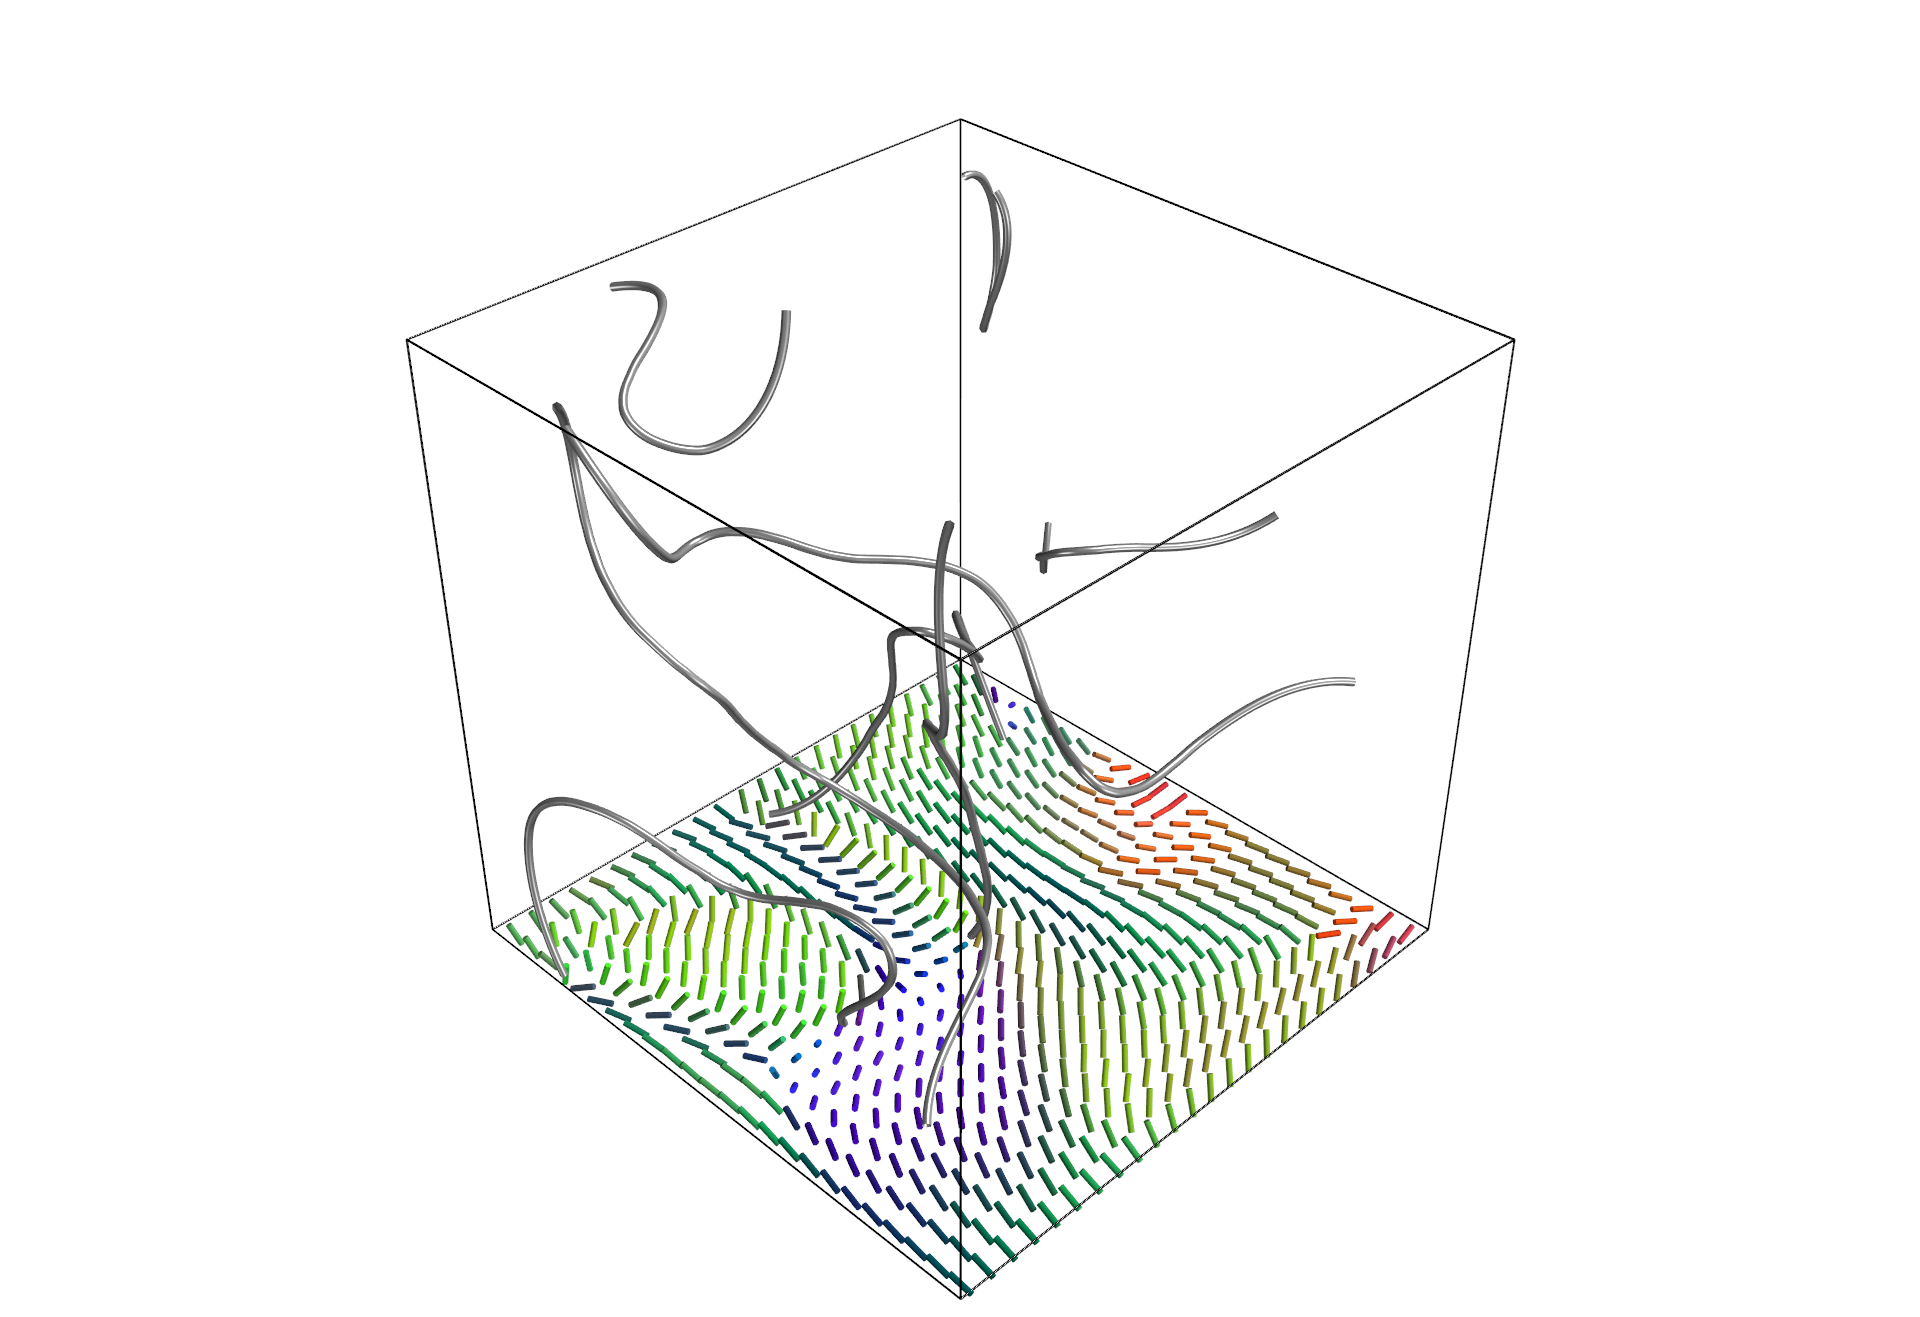
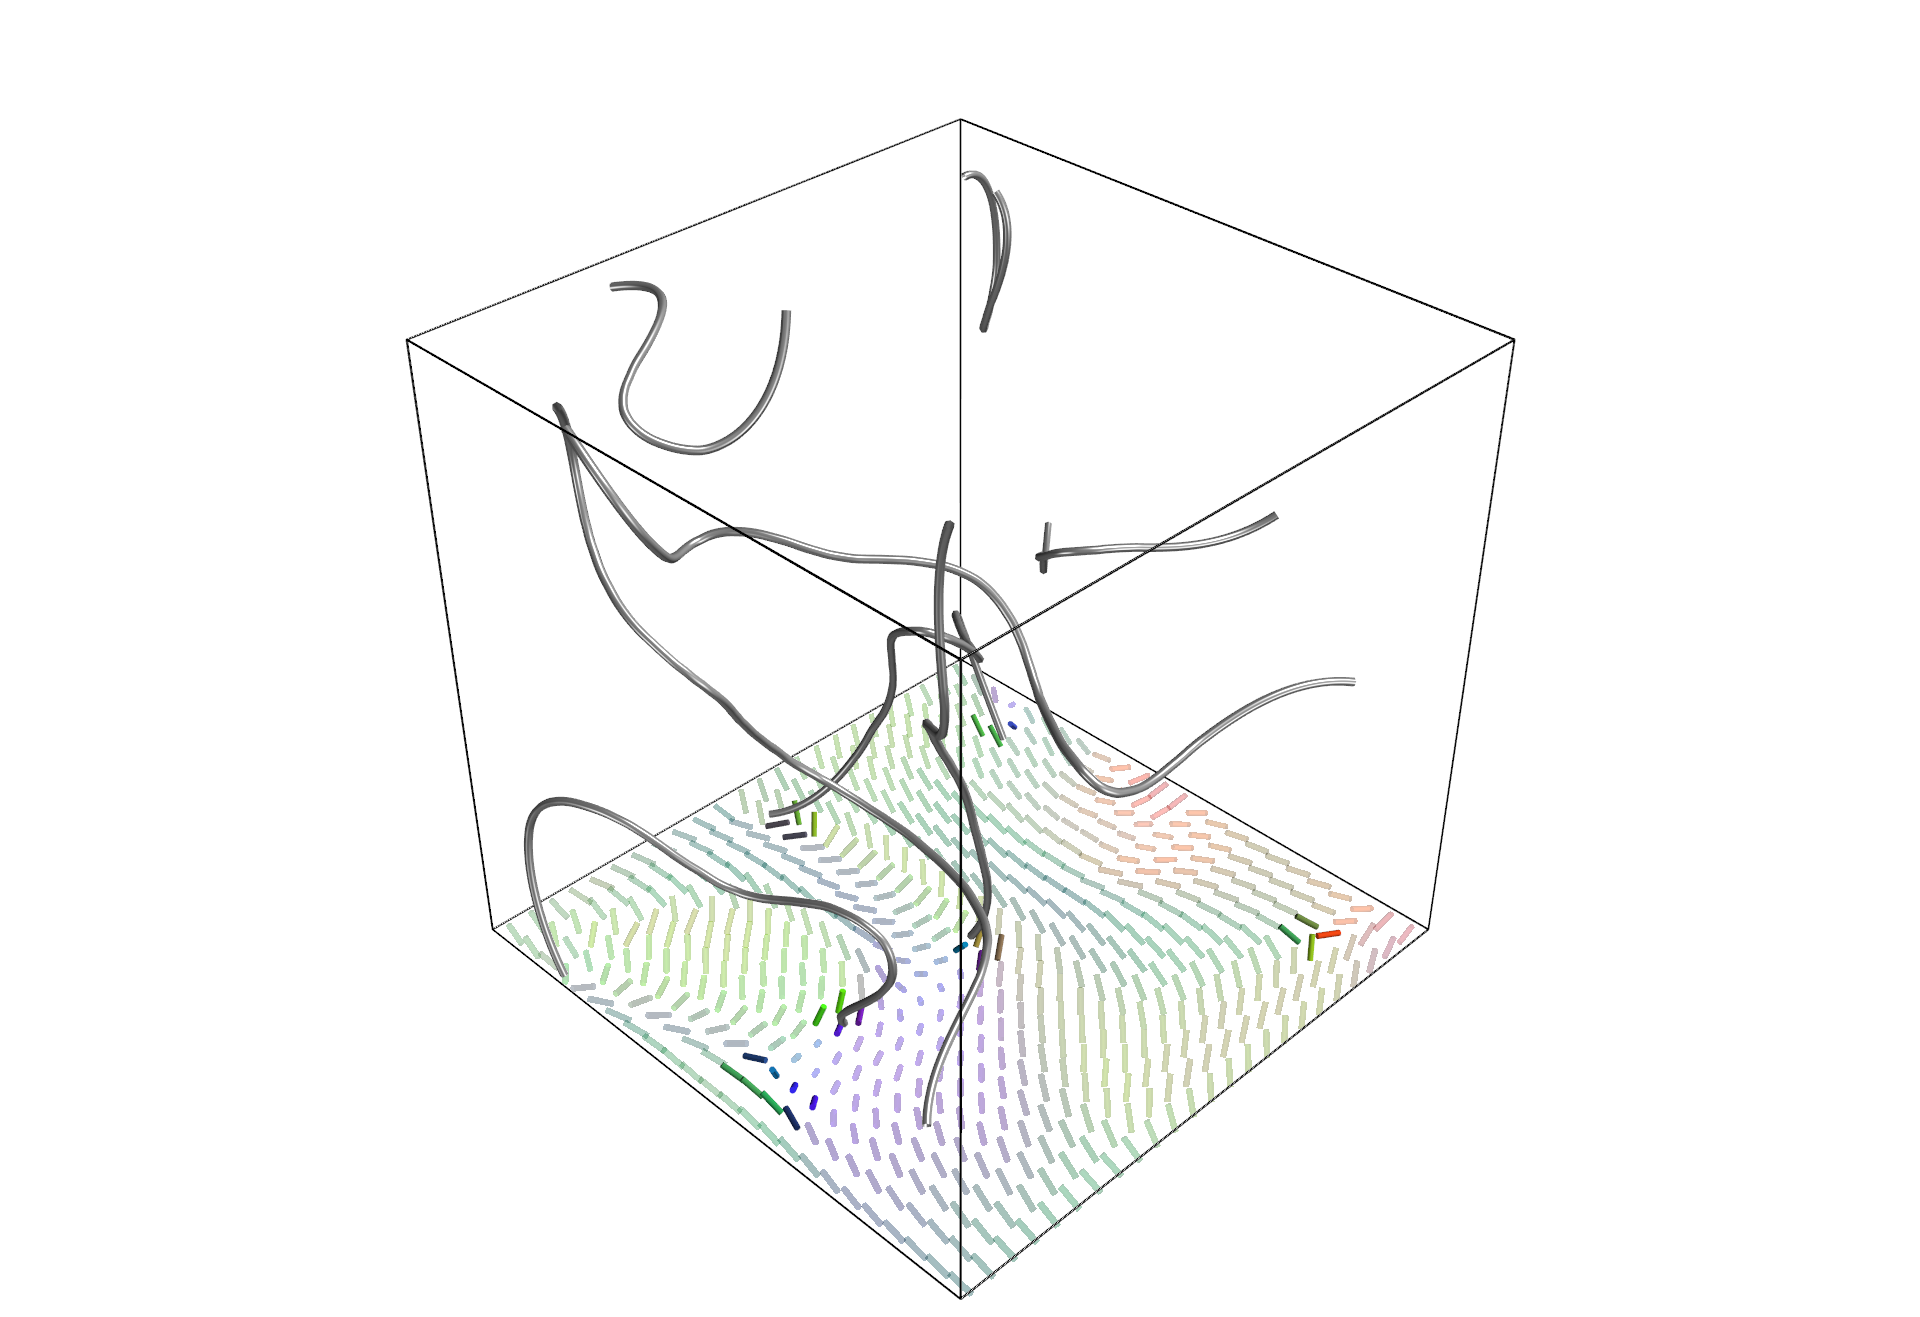
update

Changed region(s): [[0.25, 0.4981, 0.75, 0.9651]]

diff --git a/example/generare_figure_readme.py b/example/generare_figure_readme.py
@@ -45,21 +45,24 @@ Q.act_lines_classify()
 Q.act_lines_smooth()
 
 Q.act_visualize_disclination_lines(line_color=(0.5, 0.5, 0.5), extent_radius=0.1, line_radius=0.4)
-Q.act_visualize_n_in_Q((0,0,1), plane_spacing=2.5, plane_size=0.95*index_max, plane_origin=(int(index_max/2), int(index_max)/2,0), 
-                       n_length=2.5, n_radius=0.3, is_new=False, is_extent=False)
-Q.figs[0].save('figures/PlotnPlaneZ.png')
 
-Q.act_visualize_disclination_lines(line_color=(0.5, 0.5, 0.5), extent_radius=0.1, line_radius=0.4)
 n_length = 2.5
 n_radius = 0.3
 spacing = 2.5
-Q.act_visualize_n_in_Q((0,0,1), plane_spacing=spacing, plane_size=0.95*index_max, plane_origin=(int(index_max/2), int(index_max)/2,0), 
+
+Q.act_visualize_n_in_Q(plane_normal=(0,0,1), plane_spacing=spacing, plane_size=0.95*index_max, plane_origin=(int(index_max/2), int(index_max)/2,0), 
+                       n_length=2.5, n_opacity=0.2, n_radius=0.3,
+                       is_new=False, is_extent=False)
+Q.figs[0].save('figures/PlotnPlaneZ.png')
+
+Q.act_visualize_disclination_lines(line_color=(0.5, 0.5, 0.5), extent_radius=0.1, line_radius=0.4)
+Q.act_visualize_n_in_Q(plane_normal=(0,0,1), plane_spacing=spacing, plane_size=0.95*index_max, plane_origin=(int(index_max/2), int(index_max)/2,0), 
                        n_length=2.5, n_opacity=0.2, n_radius=0.3, n_is_n_defect=True,
                        is_new=False, is_extent=False)
-Q.act_visualize_n_in_Q((0,1,0), plane_spacing=spacing, plane_size=0.95*index_max, plane_origin=(int(index_max/2), 0, int(index_max)/2), 
+Q.act_visualize_n_in_Q(plane_normal=(0,1,0), plane_spacing=spacing, plane_size=0.95*index_max, plane_origin=(int(index_max/2), 0, int(index_max)/2), 
                        n_length=2.5, n_opacity=0.2, n_radius=0.3, n_is_n_defect=True,
                        is_new=False, is_extent=False)
-Q.act_visualize_n_in_Q((1,0,0), plane_spacing=spacing, plane_size=0.95*index_max, plane_origin=(0, int(index_max/2), int(index_max)/2), 
+Q.act_visualize_n_in_Q(plane_normal=(1,0,0), plane_spacing=spacing, plane_size=0.95*index_max, plane_origin=(0, int(index_max/2), int(index_max)/2), 
                        n_length=2.5, n_opacity=0.2, n_radius=0.3, n_is_n_defect=True,
                        is_new=False, is_extent=False)
 Q.figs[1].save('figures/PlotnPlaneXYZ.png')

diff --git a/classes/visual_mayavi/plot_n_plane.py b/classes/visual_mayavi/plot_n_plane.py
@@ -181,6 +181,8 @@ class PlotnPlane:
         radius = opts_nPlane.radius
 
         if is_n_defect:
+            
+            print(opts_nPlane.is_n_defect)
 
             axis_both = np.array(
                 [
